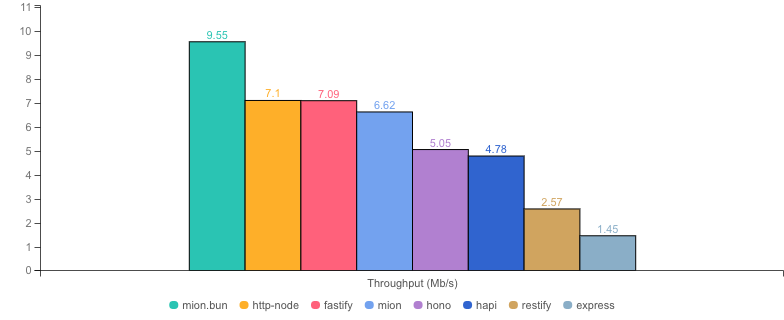
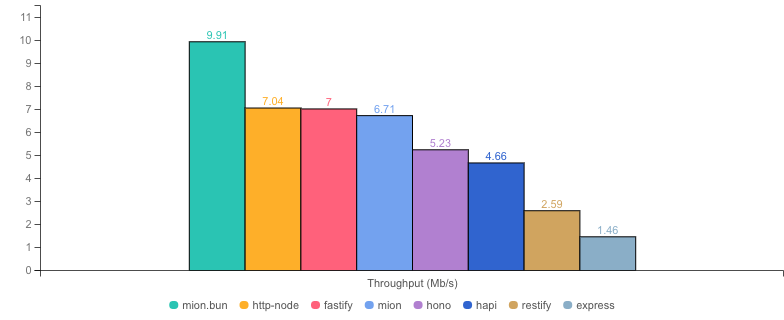
benchmarks after latest mion version

diff --git a/lib/packages.js b/lib/packages.js
@@ -3,6 +3,13 @@
 const { dependencies } = require("../package");
 
 const packages = {
+  "http-node": {
+    hasRouter: false,
+    version: "16.18.0",
+    validation: "✗",
+    description:
+      "bare node http server, should be the theoretical upper limit in node.js performance",
+  },
   mion: {
     hasRouter: true,
     package: "@MionKit/compiled-app",
@@ -20,13 +27,6 @@ const packages = {
     description: "mion using bun, automatic validation and serialization",
     isBun: true,
     fileExtension: ".js",
-  },
-  "http-node": {
-    hasRouter: false,
-    version: "16.18.0",
-    validation: "✗",
-    description:
-      "bare node http server, should be the theoretical upper limit in node.js performance",
   },
   hono: {
     hasRouter: true,

diff --git a/benchmark-compare.js b/benchmark-compare.js
@@ -243,7 +243,7 @@ function compareResults(markdown, outputResults) {
   const results = outputResults || getOutputResults();
 
   for (const result of results) {
-    const beBold = result.name === "mion";
+    const beBold = result.name.includes("mion");
     table.push([
       bold(beBold, chalk.blue(result.name), markdown),
       bold(beBold, result.version, markdown),

diff --git a/benchmarks/mion.bun.js b/benchmarks/mion.bun.js
@@ -10,6 +10,6 @@ const {
 // ###### check the apps/ directory for the original non compiled code
 // mion needs to be compiled from typescript to be able to generate runtime types metadata
 
-initRouter();
+initRouter({ skipClientRoutes: true });
 registerRoutes(routes);
 initHttpBun({ port: 3000 });

diff --git a/benchmarks/mion.js b/benchmarks/mion.js
@@ -10,6 +10,6 @@ const {
 // ###### check the apps/ directory for the original non compiled code
 // mion needs to be compiled from typescript to be able to generate runtime types metadata
 
-initRouter();
+initRouter({ skipClientRoutes: true });
 registerRoutes(routes);
 initHttp({ port: 3000 });

diff --git a/benchmarks/mion3000.js b/benchmarks/mion3000.js
@@ -20,6 +20,6 @@ for (let i = 0; i < totalRoutes; ++i) {
   routerRoutes[`route-${i}`] = defaultRoute;
 }
 
-initRouter();
+initRouter({ skipClientRoutes: true });
 registerRoutes(routerRoutes);
 initHttp({ port: 3000 });

diff --git a/README.md b/README.md
@@ -91,8 +91,8 @@ Our goal is to perform similar to fastify as it is the industry standard in term
 
 * __Machine:__ darwin x64 | 8 vCPUs | 16.0GB Mem
 * __Node:__ `v20.11.0`
-* __Run:__ Mon Jan 29 2024 01:48:11 GMT+0000 (Greenwich Mean Time)
-* __Method:__ `autocannon -c 100 -d 40.01 -p 10 localhost:3000` (two rounds; one to warm-up, one to measure)
+* __Run:__ Mon Jan 29 2024 22:19:00 GMT+0000 (Greenwich Mean Time)
+* __Method:__ `autocannon -c 100 -d 40.02 -p 10 localhost:3000` (two rounds; one to warm-up, one to measure)
 
 #### Req (R/s) 
 
@@ -124,13 +124,13 @@ Our goal is to perform similar to fastify as it is the industry standard in term
 
 
 
-|           | Version   | Router | Req (R/s)   | Latency (ms) | Output (Mb/s) | Max Memory (Mb) | Max Cpu (%) | Validation | Description                                                                         |
-| :--       | --:       | --:    | :-:         | --:          | --:           | --:             | --:         | :-:        | :--                                                                                 |
-| http-node | 16.18.0   | ✗      | 18296.3     | 54.13        | 4.40          | 80              | 123         | ✗          | bare node http server, should be the theoretical upper limit in node.js performance |
-| mion.bun  | 0.6.2     | ✓      | 17217.6     | 57.55        | 3.99          | 111             | 108         | ✓          | mion using bun, automatic validation and serialization                              |
-| fastify   | 4.10.2    | ✓      | 16735.5     | 59.22        | 4.04          | 87              | 120         | -          | Validation using schemas and ajv. schemas are generated manually                    |
-| **mion**  | **0.6.2** | **✓**  | **13797.0** | **71.92**    | **3.82**      | **142**         | **145**     | **✓**      | **Automatic validation and serialization out of the box**                           |
-| restify   | 11.1.0    | ✓      | 12960.0     | 76.61        | 3.32          | 129             | 121         | ✗          | manual validation or third party tools                                              |
-| hapi      | 21.3.2    | ✓      | 8815.5      | 112.79       | 2.12          | 96              | 131         | ✗          | validation using joi or third party tools                                           |
-| hono      | 3.12.6    | ✓      | 5609.3      | 177.43       | 1.35          | 127             | 136         | ✗          | hono node server, manual validation or third party tools                            |
-| express   | 4.18.2    | ✓      | 4563.9      | 214.79       | 1.10          | 127             | 126         | ✗          | manual validation or third party tools                                              |
+|              | Version   | Router | Req (R/s)   | Latency (ms) | Output (Mb/s) | Max Memory (Mb) | Max Cpu (%) | Validation | Description                                                                         |
+| :--          | --:       | --:    | :-:         | --:          | --:           | --:             | --:         | :-:        | :--                                                                                 |
+| http-node    | 16.18.0   | ✗      | 18598.0     | 53.24        | 4.47          | 79              | 126         | ✗          | bare node http server, should be the theoretical upper limit in node.js performance |
+| **mion.bun** | **0.6.2** | **✓**  | **17023.2** | **58.22**    | **3.94**      | **111**         | **106**     | **✓**      | **mion using bun, automatic validation and serialization**                          |
+| fastify      | 4.10.2    | ✓      | 16961.8     | 58.41        | 4.09          | 87              | 122         | -          | Validation using schemas and ajv. schemas are generated manually                    |
+| **mion**     | **0.6.2** | **✓**  | **13936.0** | **71.21**    | **3.85**      | **136**         | **139**     | **✓**      | **Automatic validation and serialization out of the box**                           |
+| restify      | 11.1.0    | ✓      | 12776.6     | 77.70        | 3.28          | 130             | 125         | ✗          | manual validation or third party tools                                              |
+| hapi         | 21.3.2    | ✓      | 8870.8      | 112.09       | 2.13          | 103             | 134         | ✗          | validation using joi or third party tools                                           |
+| hono         | 3.12.6    | ✓      | 5763.7      | 172.66       | 1.39          | 123             | 134         | ✗          | hono node server, manual validation or third party tools                            |
+| express      | 4.18.2    | ✓      | 4596.6      | 213.24       | 1.10          | 122             | 126         | ✗          | manual validation or third party tools                                              |

diff --git a/HELLO-WORLD.md b/HELLO-WORLD.md
@@ -39,8 +39,8 @@ app.get("/hello", function (req, res) {
 
 * __Machine:__ darwin x64 | 8 vCPUs | 16.0GB Mem
 * __Node:__ `v20.11.0`
-* __Run:__ Mon Jan 29 2024 01:56:33 GMT+0000 (Greenwich Mean Time)
-* __Method:__ `autocannon -c 100 -d 40.06 -p 10 localhost:3000` (two rounds; one to warm-up, one to measure)
+* __Run:__ Mon Jan 29 2024 22:27:22 GMT+0000 (Greenwich Mean Time)
+* __Method:__ `autocannon -c 100 -d 40.02 -p 10 localhost:3000` (two rounds; one to warm-up, one to measure)
 
 #### Req (R/s) 
 
@@ -72,13 +72,13 @@ app.get("/hello", function (req, res) {
 
 
 
-|           | Version   | Router | Req (R/s)   | Latency (ms) | Output (Mb/s) | Max Memory (Mb) | Max Cpu (%) | Validation | Description                                                                         |
-| :--       | --:       | --:    | :-:         | --:          | --:           | --:             | --:         | :-:        | :--                                                                                 |
-| mion.bun  | 0.6.2     | ✓      | 61463.2     | 15.79        | 9.55          | 83              | 106         | ✓          | mion using bun, automatic validation and serialization                              |
-| http-node | 16.18.0   | ✗      | 39839.2     | 24.60        | 7.10          | 80              | 125         | ✗          | bare node http server, should be the theoretical upper limit in node.js performance |
-| fastify   | 4.10.2    | ✓      | 39560.0     | 24.78        | 7.09          | 86              | 121         | -          | Validation using schemas and ajv. schemas are generated manually                    |
-| **mion**  | **0.6.2** | **✓**  | **33033.0** | **29.77**    | **6.62**      | **90**          | **128**     | **✓**      | **Automatic validation and serialization out of the box**                           |
-| hono      | 3.12.6    | ✓      | 28300.4     | 34.83        | 5.05          | 96              | 123         | ✗          | hono node server, manual validation or third party tools                            |
-| hapi      | 21.3.2    | ✓      | 26826.0     | 36.77        | 4.78          | 116             | 129         | ✗          | validation using joi or third party tools                                           |
-| restify   | 11.1.0    | ✓      | 10422.3     | 95.49        | 2.57          | 161             | 143         | ✗          | manual validation or third party tools                                              |
-| express   | 4.18.2    | ✓      | 8142.6      | 122.16       | 1.45          | 113             | 125         | ✗          | manual validation or third party tools                                              |
+|              | Version   | Router | Req (R/s)   | Latency (ms) | Output (Mb/s) | Max Memory (Mb) | Max Cpu (%) | Validation | Description                                                                         |
+| :--          | --:       | --:    | :-:         | --:          | --:           | --:             | --:         | :-:        | :--                                                                                 |
+| **mion.bun** | **0.6.2** | **✓**  | **63724.8** | **15.19**    | **9.91**      | **87**          | **107**     | **✓**      | **mion using bun, automatic validation and serialization**                          |
+| http-node    | 16.18.0   | ✗      | 39481.6     | 24.83        | 7.04          | 81              | 129         | ✗          | bare node http server, should be the theoretical upper limit in node.js performance |
+| fastify      | 4.10.2    | ✓      | 39065.6     | 25.10        | 7.00          | 87              | 123         | -          | Validation using schemas and ajv. schemas are generated manually                    |
+| **mion**     | **0.6.2** | **✓**  | **33488.6** | **29.35**    | **6.71**      | **91**          | **127**     | **✓**      | **Automatic validation and serialization out of the box**                           |
+| hono         | 3.12.6    | ✓      | 29306.0     | 33.61        | 5.23          | 89              | 123         | ✗          | hono node server, manual validation or third party tools                            |
+| hapi         | 21.3.2    | ✓      | 26155.6     | 37.72        | 4.66          | 101             | 128         | ✗          | validation using joi or third party tools                                           |
+| restify      | 11.1.0    | ✓      | 10475.8     | 94.94        | 2.59          | 165             | 144         | ✗          | manual validation or third party tools                                              |
+| express      | 4.18.2    | ✓      | 8172.9      | 121.70       | 1.46          | 121             | 126         | ✗          | manual validation or third party tools                                              |

diff --git a/COLD-STARTS.md b/COLD-STARTS.md
@@ -14,7 +14,7 @@ We are comparing mion against fastify as we consider it to be the gold standard 
 
 - **Machine:** darwin x64 | 8 vCPUs | 16.0GB Mem
 - **Node:** `v20.11.0`
-- **Run:** Mon Jan 29 2024 01:57:53 GMT+0000 (Greenwich Mean Time)
+- **Run:** Mon Jan 29 2024 22:28:41 GMT+0000 (Greenwich Mean Time)
 - **Method:** `npm run metrics` (samples: 5)
 - **startup:** time elapsed to setup the application
 - **listen:** time elapsed until the http server is ready to accept requests (cold start)
@@ -25,18 +25,18 @@ We are comparing mion against fastify as we consider it to be the gold standard 
 
 |                                | startup(ms) | listen(ms) |
 | ------------------------------ | ----------- | ---------- |
-| 10-startup-fastify-routes.js   | 135         | 201        |
-| 10-startup-mion-routes.js      | 83          | 88         |
-| 100-startup-fastify-routes.js  | 145         | 295        |
-| 100-startup-mion-routes.js     | 85          | 90         |
-| 500-startup-fastify-routes.js  | 214         | 695        |
-| 500-startup-mion-routes.js     | 85          | 94         |
-| 1000-startup-fastify-routes.js | 320         | 1202       |
-| 1000-startup-mion-routes.js    | 86          | 100        |
-| 2000-startup-fastify-routes.js | 539         | 2157       |
-| 2000-startup-mion-routes.js    | 86          | 110        |
-| 3000-startup-fastify-routes.js | 918         | 3414       |
-| 3000-startup-mion-routes.js    | 86          | 116        |
-| 5000-startup-fastify-routes.js | 1726        | 6004       |
-| 5000-startup-mion-routes.js    | 87          | 128        |
-| startup-listen.js              | 86          | 90         |
+| 10-startup-fastify-routes.js   | 132         | 198        |
+| 10-startup-mion-routes.js      | 82          | 87         |
+| 100-startup-fastify-routes.js  | 144         | 293        |
+| 100-startup-mion-routes.js     | 82          | 88         |
+| 500-startup-fastify-routes.js  | 217         | 688        |
+| 500-startup-mion-routes.js     | 83          | 91         |
+| 1000-startup-fastify-routes.js | 327         | 1198       |
+| 1000-startup-mion-routes.js    | 83          | 96         |
+| 2000-startup-fastify-routes.js | 520         | 2133       |
+| 2000-startup-mion-routes.js    | 84          | 106        |
+| 3000-startup-fastify-routes.js | 789         | 3235       |
+| 3000-startup-mion-routes.js    | 85          | 115        |
+| 5000-startup-fastify-routes.js | 1749        | 6105       |
+| 5000-startup-mion-routes.js    | 85          | 126        |
+| startup-listen.js              | 82          | 86         |
